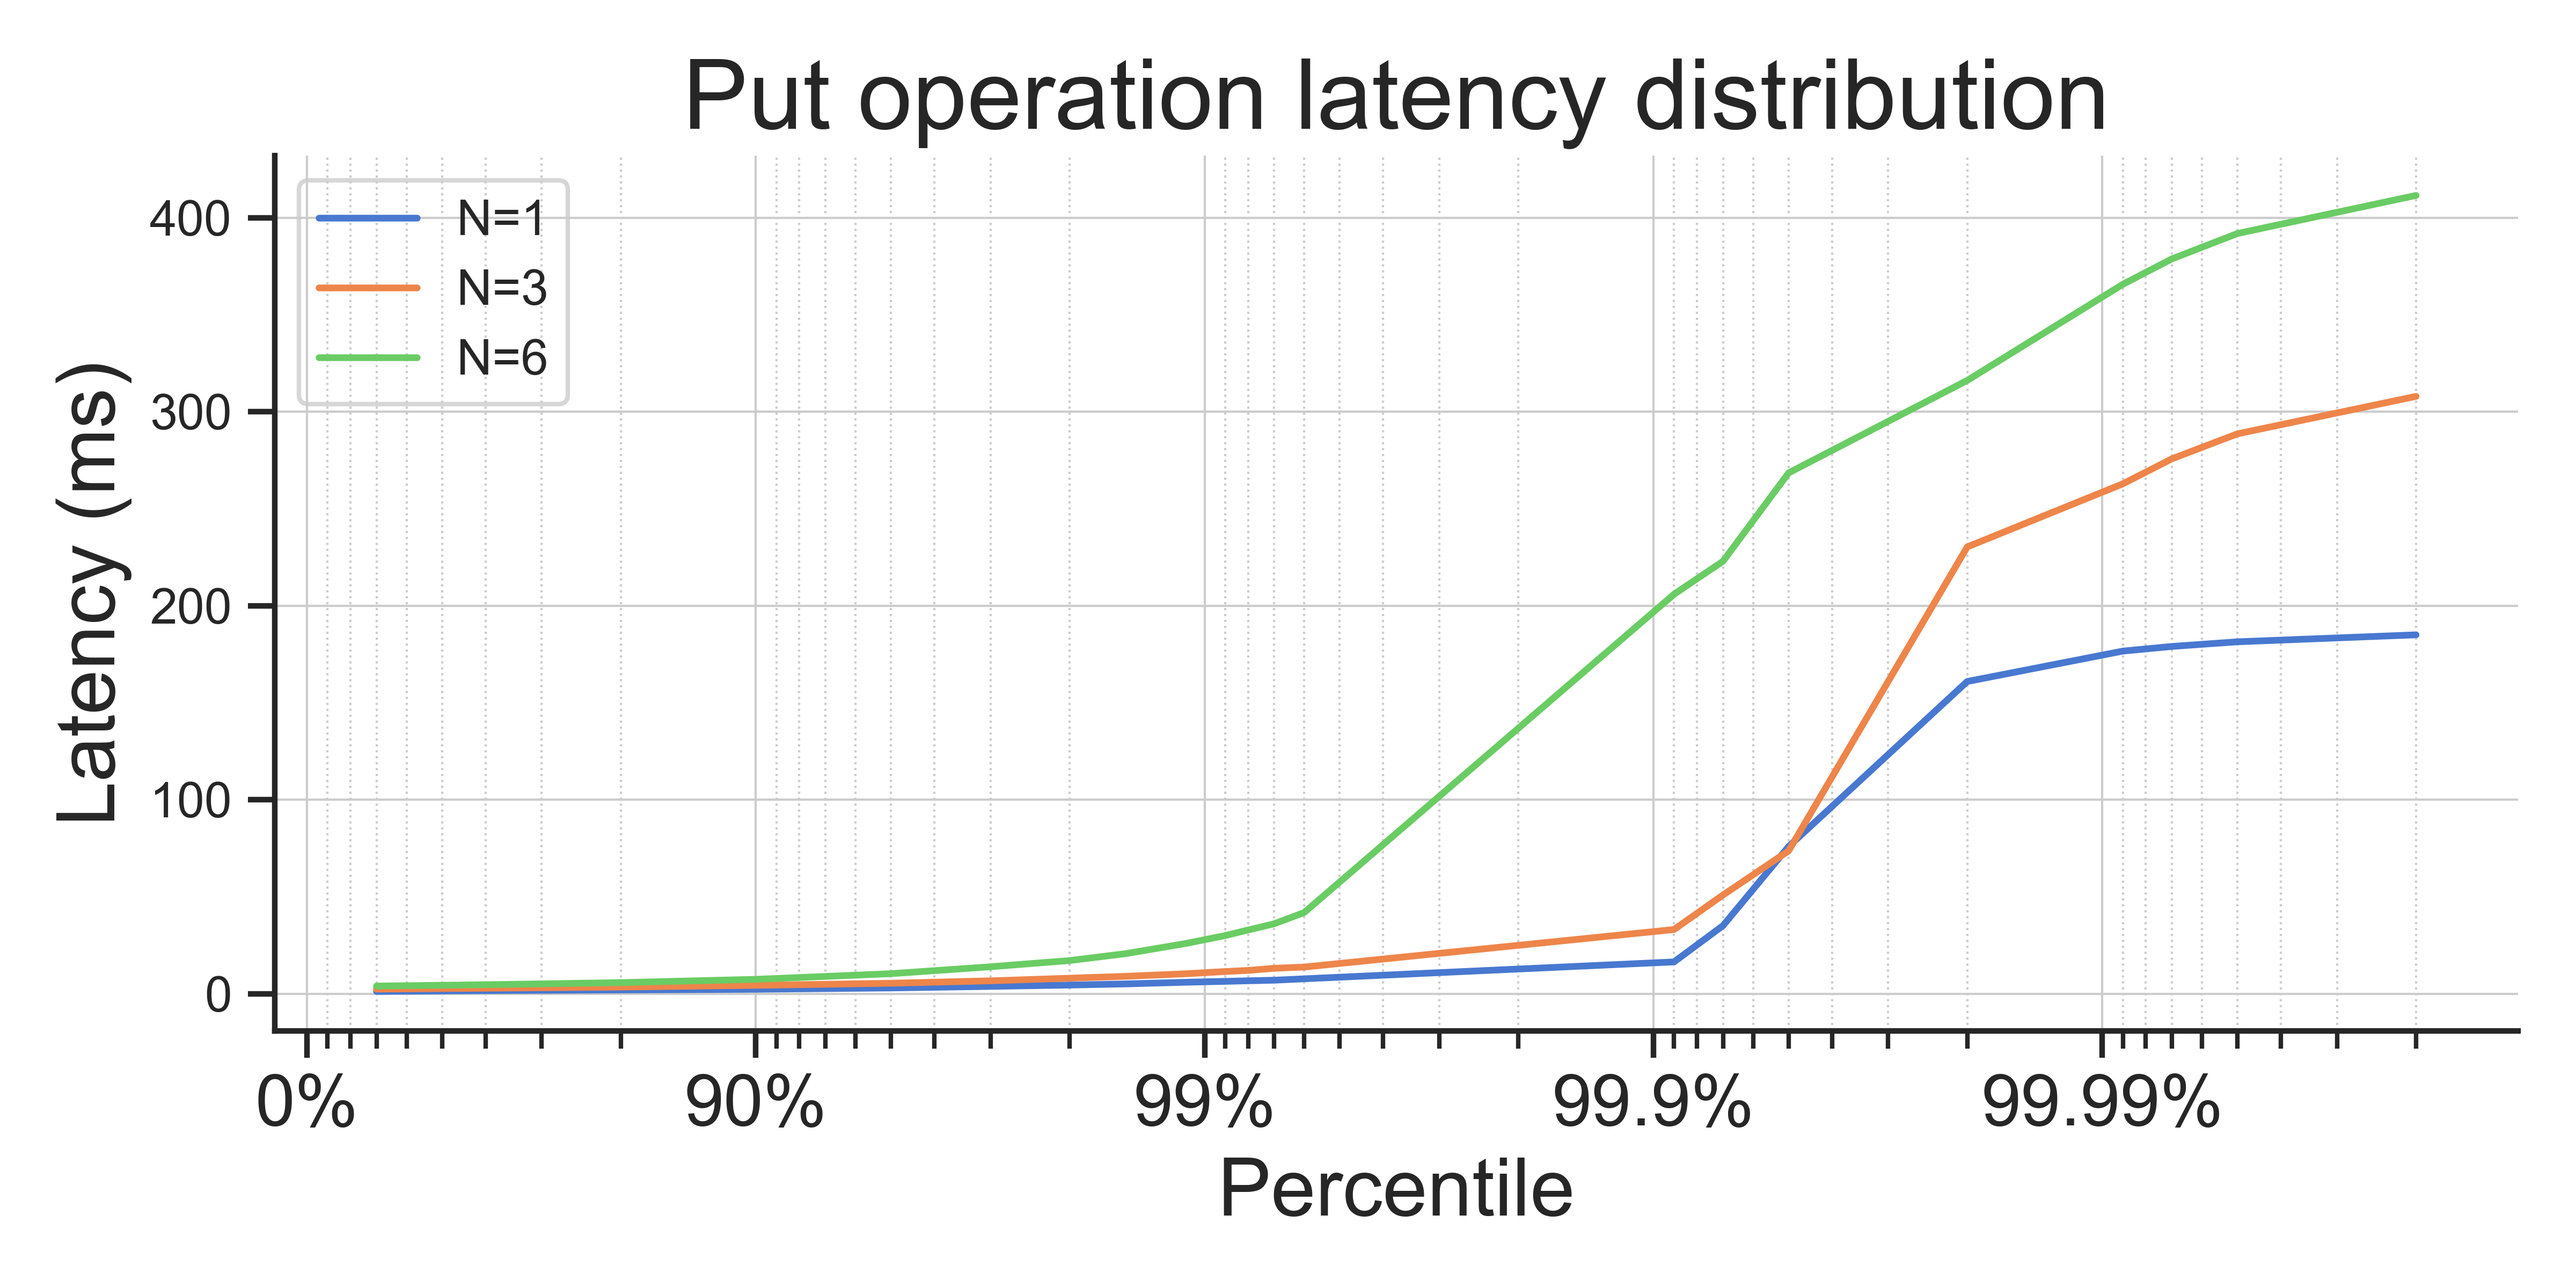
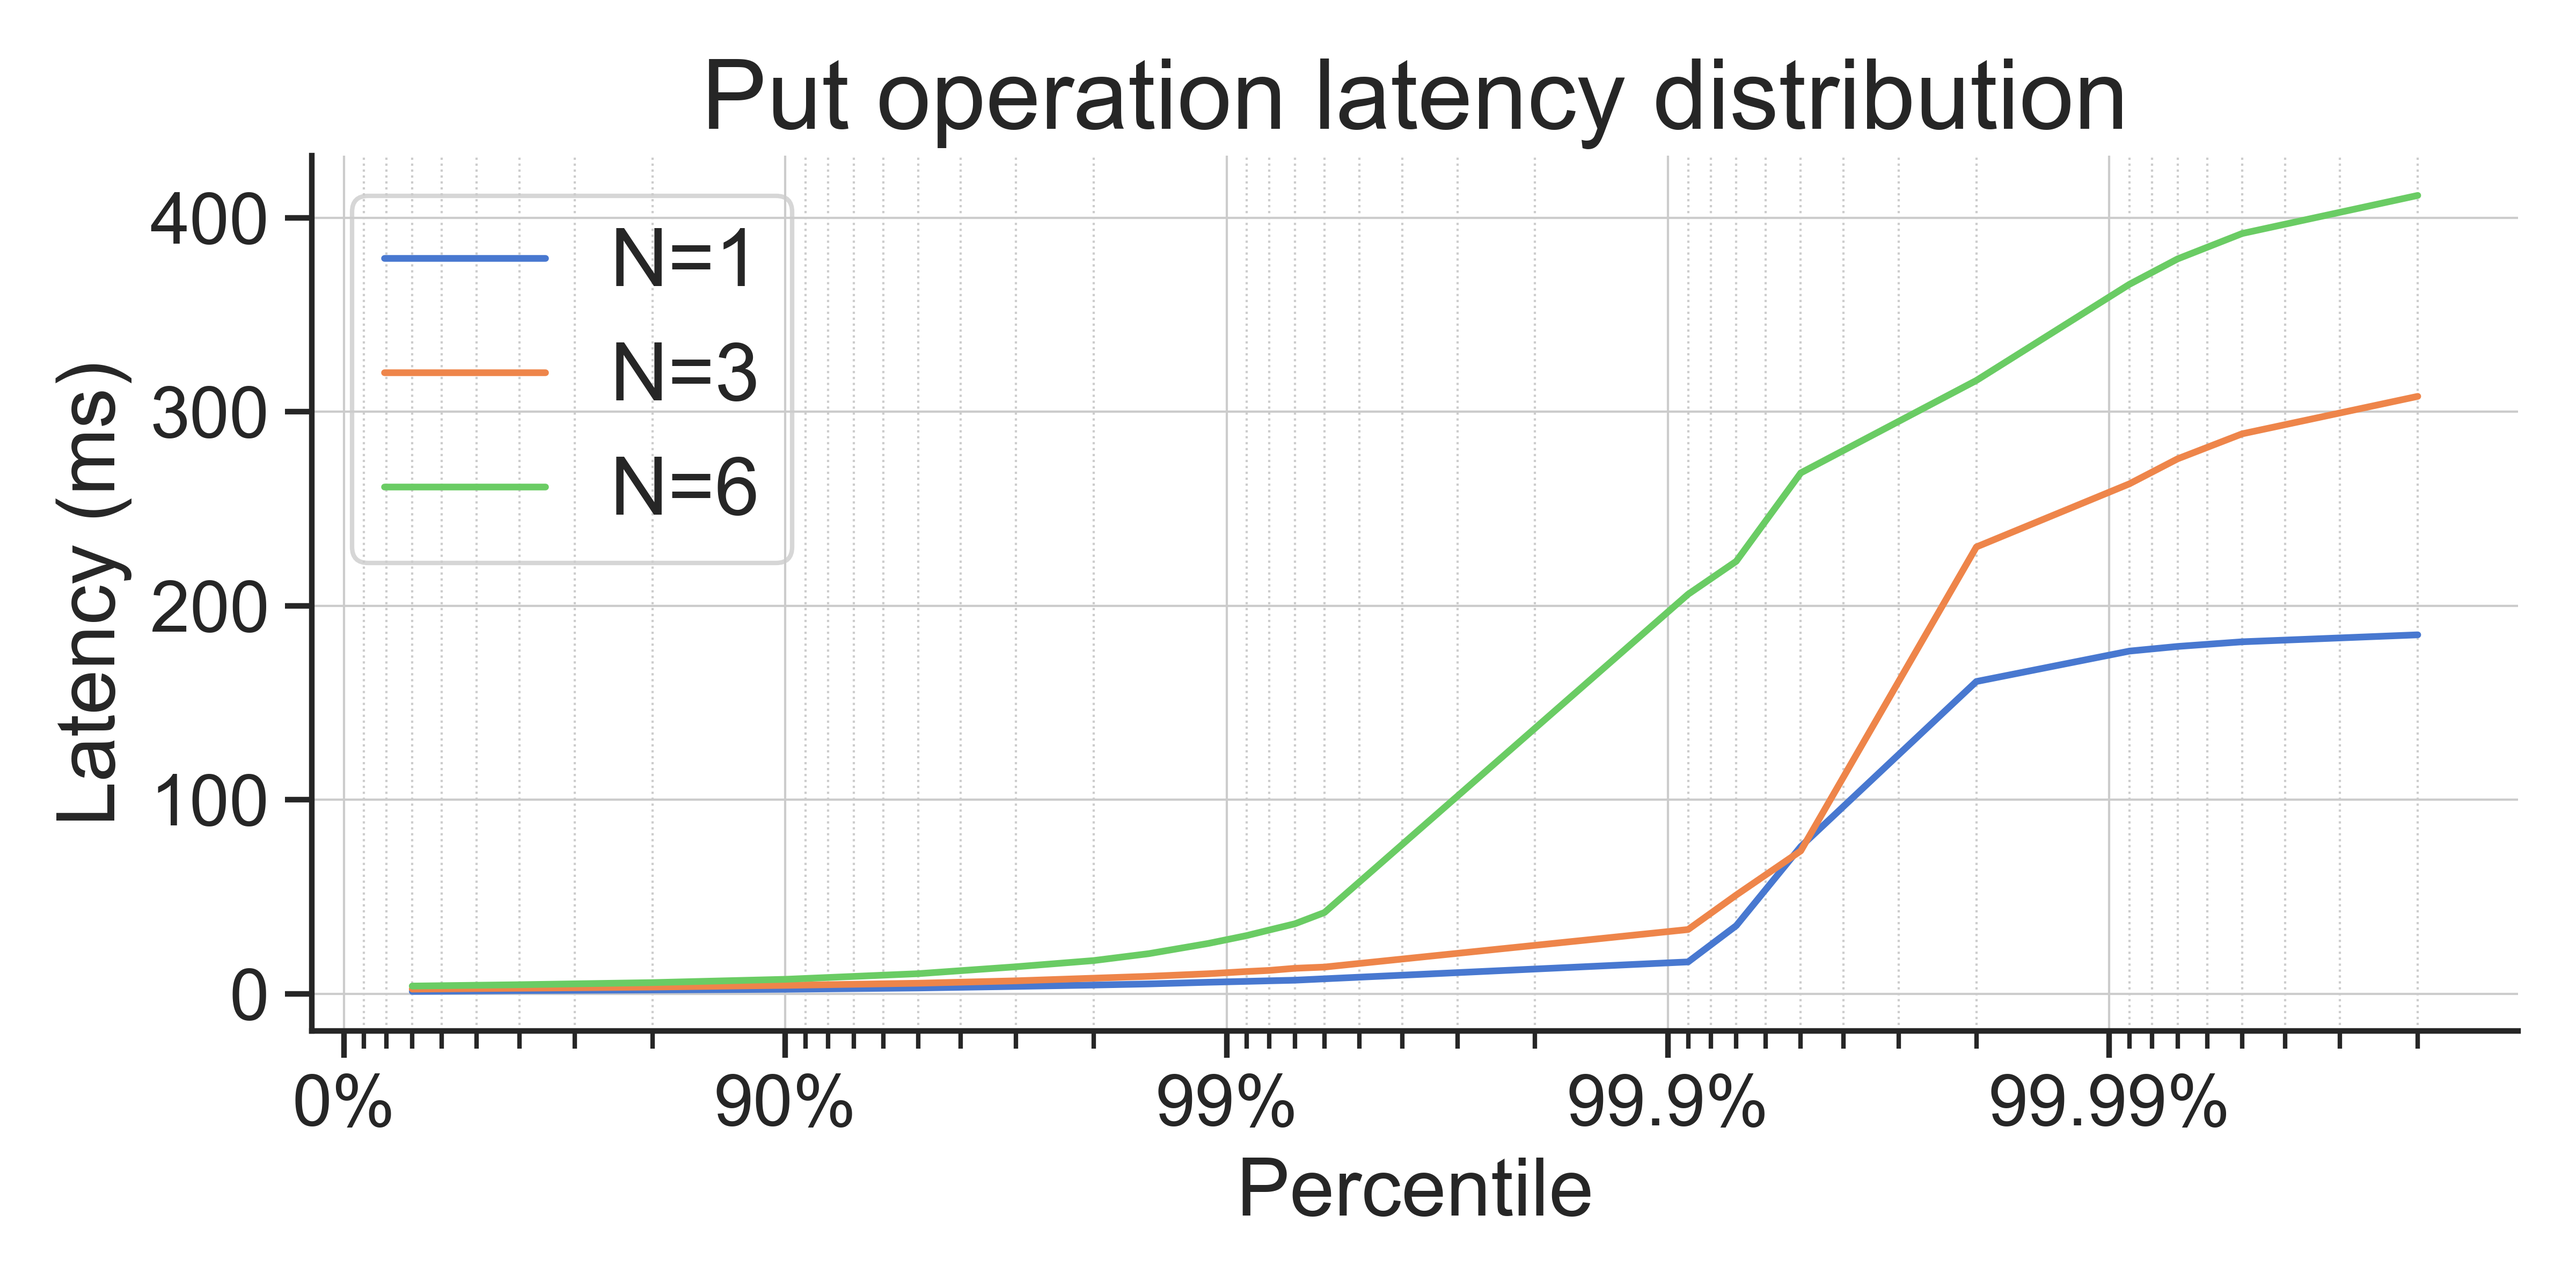
Larger font

diff --git a/main.py b/main.py
@@ -8,8 +8,8 @@ from cluster7 import *
 
 plt.rcParams.update({'font.size': 30})
 
-put_latency = cluster_put_latency_n_1_1
-get_latency = cluster_get_latency_n_1_1
+put_latency = cluster_put_latency_n_3_3
+get_latency = cluster_get_latency_n_3_3
 
 get_latency_1 = cluster_get_latency_n_1_1
 put_latency_1 = cluster_put_latency_n_1_1
@@ -82,6 +82,9 @@ def plot_percentile(name, percentiles, percentages):
 
     ax.plot([100.0 - v for v in x], y, label='N=1')
 
+    for label in ax.get_yticklabels():
+        label.set_fontsize(16)
+
     ax.grid(True, linewidth=0.5, zorder=5)
     ax.grid(True, which='minor', linewidth=0.5, linestyle=':')
 
@@ -89,7 +92,7 @@ def plot_percentile(name, percentiles, percentages):
     ax.set_xlabel('Percentile', fontsize=18)
     ax.set_title(name + ' latency distribution', fontsize=22)
 
-    ax.legend()
+    ax.legend(fontsize=22)
 
     sns.despine(fig=fig)
 
@@ -126,6 +129,9 @@ def plot_percentile_multiple(name, percentiles_map, percentages):
     for key in percentiles_map:
         ax.plot([100.0 - v for v in x], percentiles_map[key], label="N={}".format(key))
 
+    for label in ax.get_yticklabels():
+        label.set_fontsize(16)
+
     ax.grid(True, linewidth=0.5, zorder=5)
     ax.grid(True, which='minor', linewidth=0.5, linestyle=':')
 
@@ -133,7 +139,7 @@ def plot_percentile_multiple(name, percentiles_map, percentages):
     ax.set_xlabel('Percentile', fontsize=18)
     ax.set_title(name + ' latency distribution', fontsize=22)
 
-    ax.legend()
+    ax.legend(fontsize=18)
 
     sns.despine(fig=fig)
 
